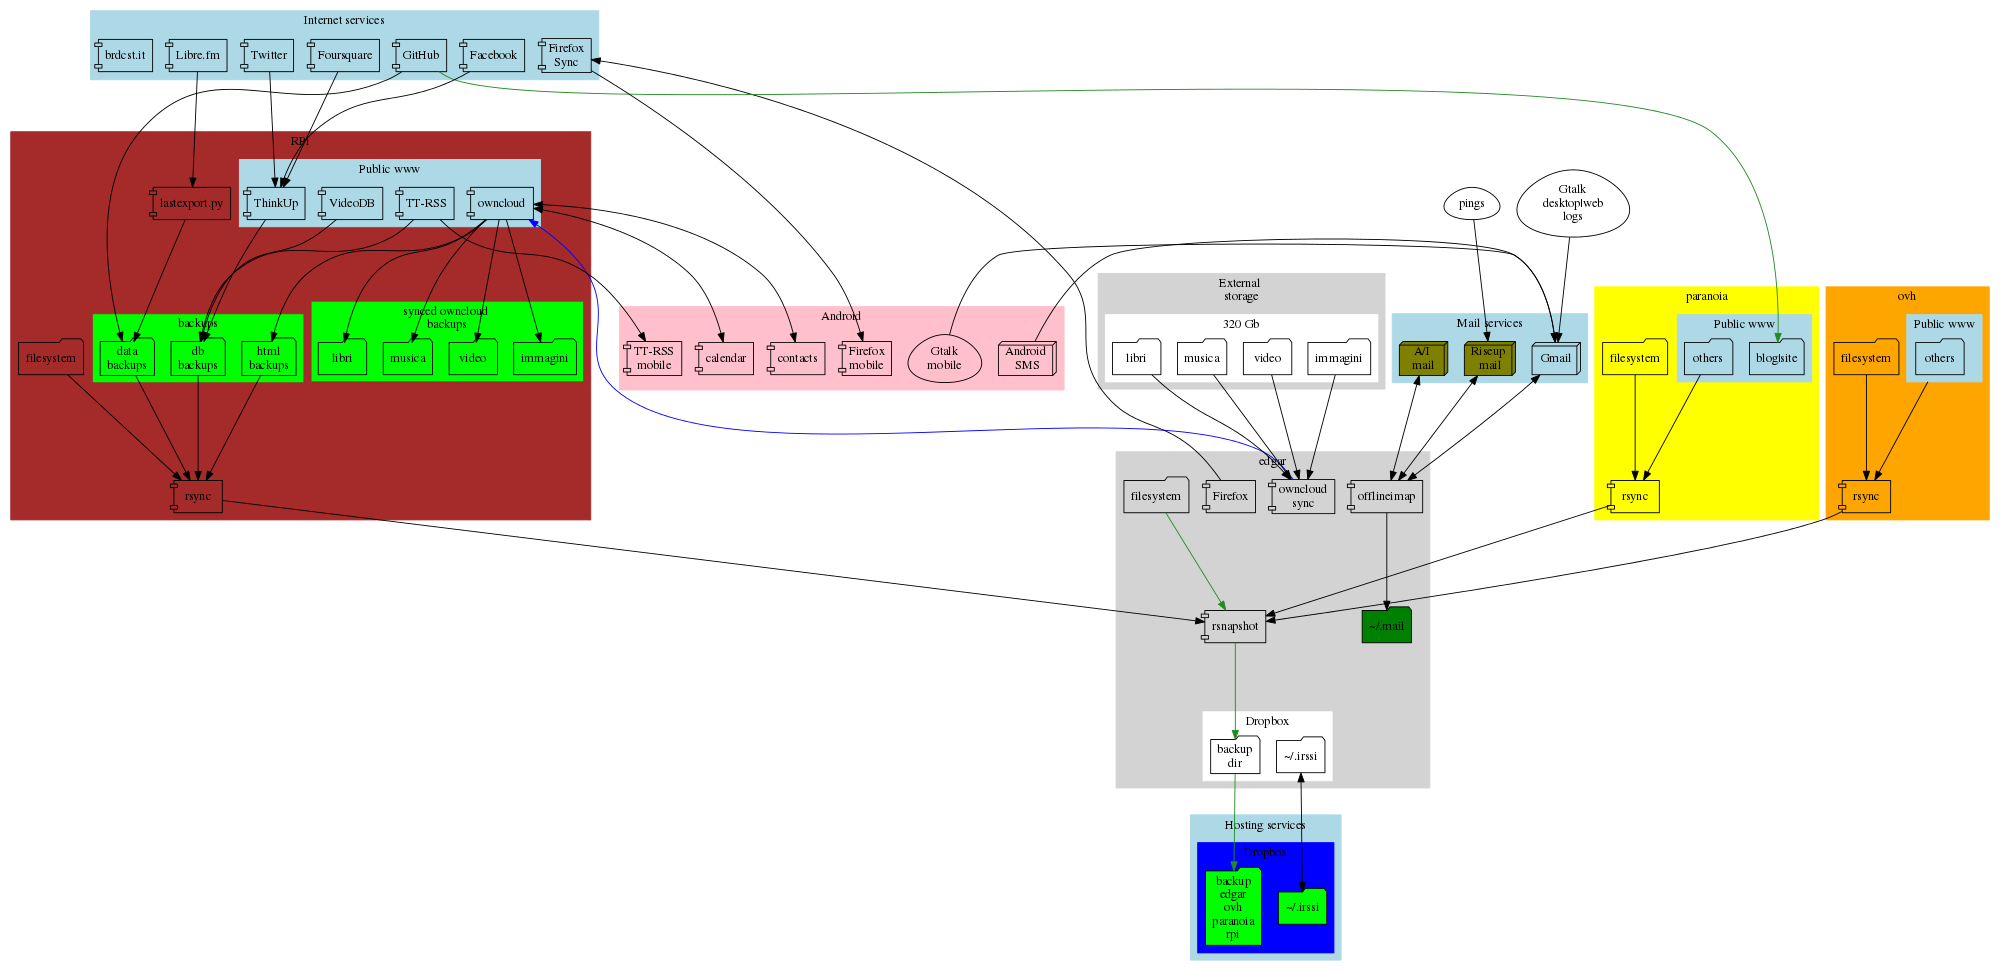
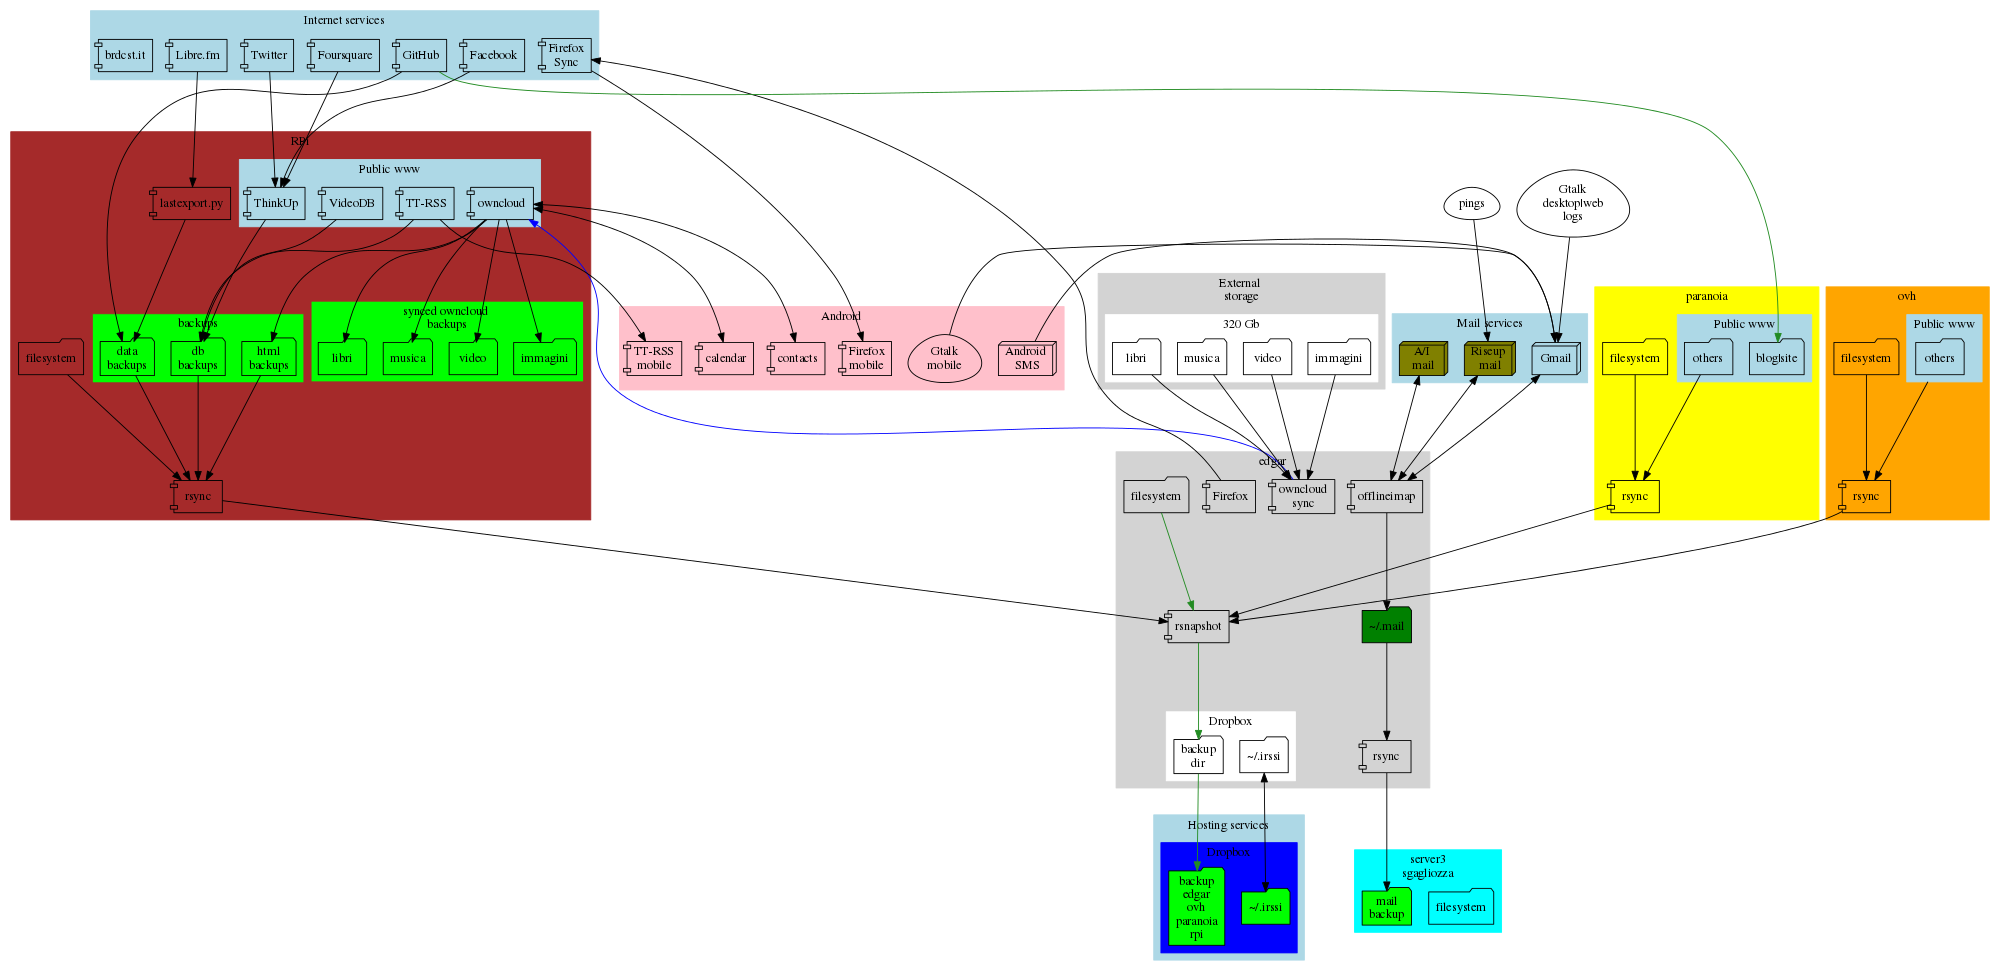
updated backup scheme

diff --git a/content/log/2012/04/backup-strategies.html b/content/log/2012/04/backup-strategies.html
@@ -49,6 +49,7 @@ Il codice dell'immagine:
 			// scripts and programs
 			offlineimap [label="offlineimap",shape=component]
 			script_rsnapshot [label="rsnapshot",shape=component]
+			rsync [label="rsync",shape=component]
 			firefox [label="Firefox",shape=component]
 			
 			// folders
@@ -127,7 +128,7 @@ Il codice dell'immagine:
 		subgraph cluster_paranoia {
 			style=filled;
 			color=yellow;
-			label = "paranoia";
+			label = "server2\nparanoia";
 
 			//rsync_paranoia [label="rsync",shape=component]
 
@@ -146,10 +147,20 @@ Il codice dell'immagine:
 			//others_pubwww_paranoia -> rsync_paranoia
 		}
 
+		subgraph cluster_sgagliozza {
+			style=filled;
+			color=cyan;
+			label = "server3\nsgagliozza";
+
+			filesystem_sgagliozza [label="filesystem",shape=folder]
+			mail_back [label="mail\nbackup",shape=folder,style=filled,fillcolor=green]
+			
+		}
+
 		subgraph cluster_ovh {
 			style=filled;
 			color=orange;
-			label = "ovh";
+			label = "server1\novh";
 
 			rsync_ovh[label="rsync",shape=component]
 			filesystem_ovh [label="filesystem",shape=folder]
@@ -231,6 +242,7 @@ Il codice dell'immagine:
 		ai -> offlineimap [dir=both]
 		riseup -> offlineimap [dir=both]
 		offlineimap -> mail
+		mail -> rsync -> mail_back
 		
 		// internet services
 		github -> blog_pubwww [color=forestgreen]
@@ -266,6 +278,7 @@ Qui si seguito, invece, i progetti a lungo termine:
 			// scripts and programs
 			offlineimap [label="offlineimap",shape=component]
 			script_rsnapshot [label="rsnapshot",shape=component]
+			rsync [label="rsync",shape=component]
 			sync_owncloud [label="owncloud\nsync",shape=component]
 			firefox [label="Firefox",shape=component]
 			
@@ -351,6 +364,16 @@ Qui si seguito, invece, i progetti a lungo termine:
 
 			filesystem_paranoia -> rsync_paranoia -> script_rsnapshot
 			others_pubwww_paranoia -> rsync_paranoia
+		}
+
+		subgraph cluster_sgagliozza {
+			style=filled;
+			color=cyan;
+			label = "server3\nsgagliozza";
+
+			filesystem_sgagliozza [label="filesystem",shape=folder]
+			mail_back [label="mail\nbackup",shape=folder,style=filled,fillcolor=green]
+			
 		}
 
 		subgraph cluster_ovh {
@@ -474,6 +497,7 @@ Qui si seguito, invece, i progetti a lungo termine:
 		ai -> offlineimap [dir=both]
 		riseup -> offlineimap [dir=both]
 		offlineimap -> mail
+		mail -> rsync -> mail_back
 		
 		// immagini
 		immagini_hd1 -> sync_owncloud
